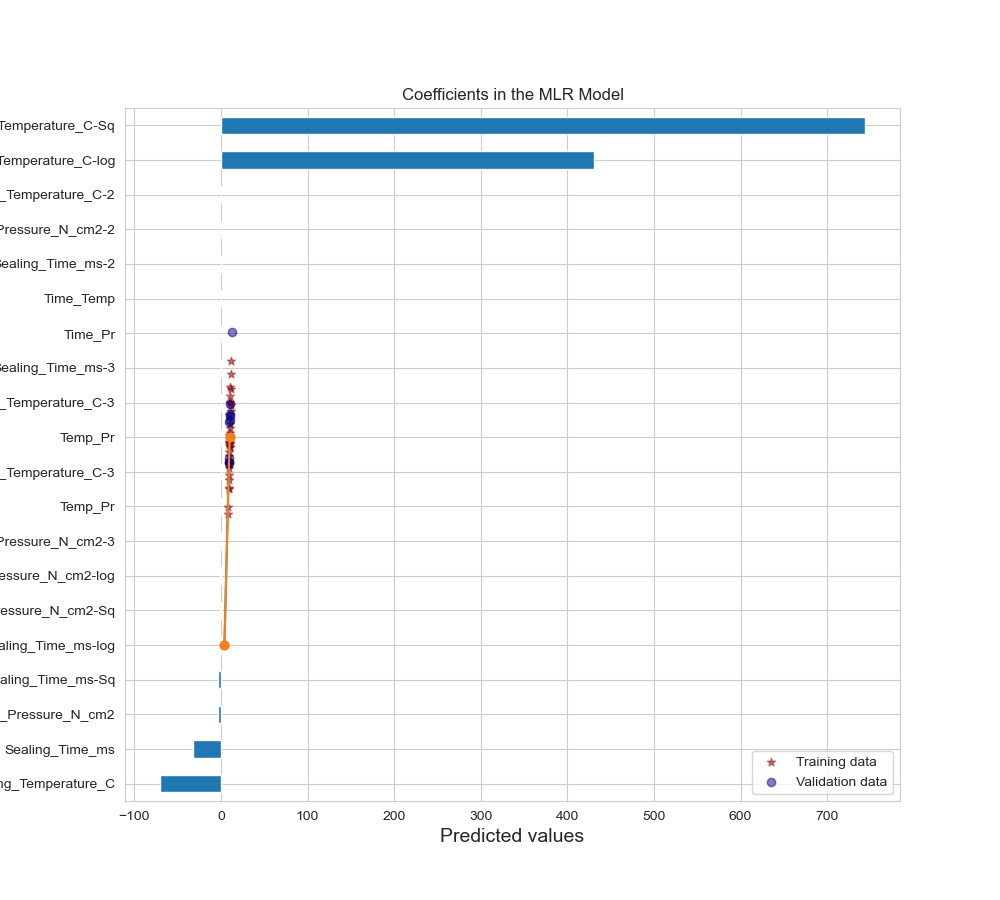
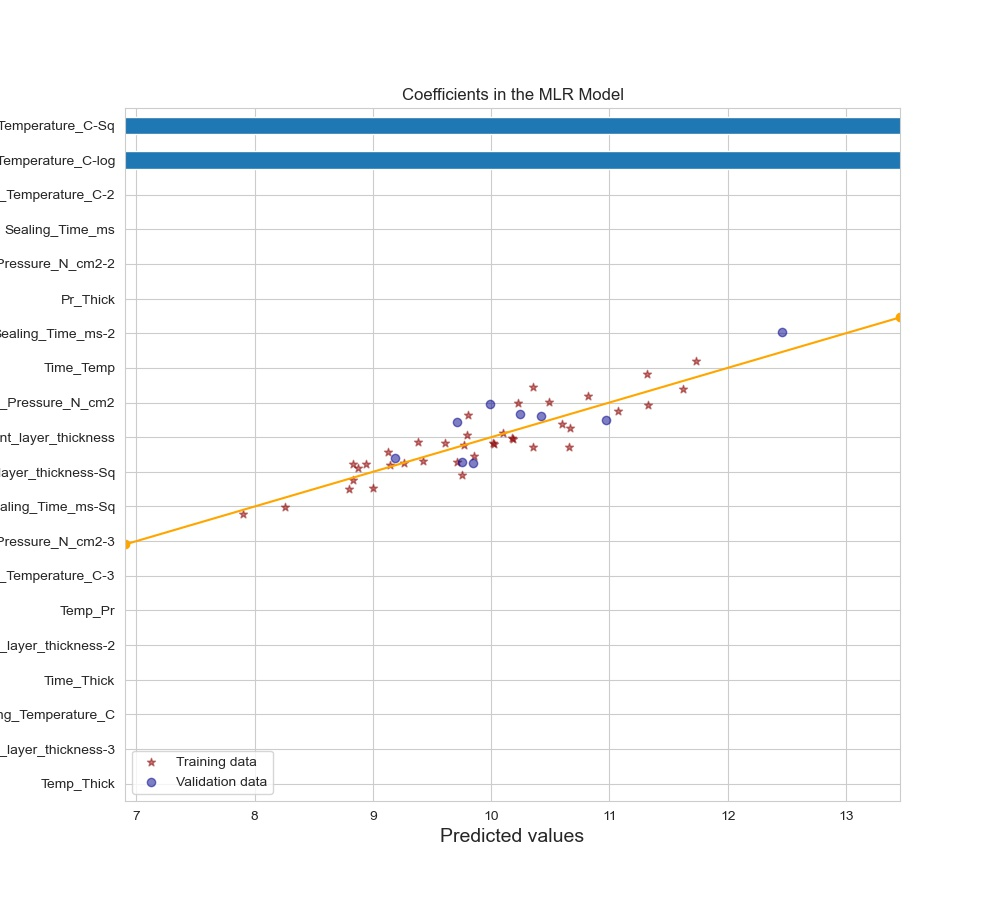
Changes

diff --git a/python_modeller.py b/python_modeller.py
@@ -43,7 +43,6 @@ def get_equation(coefs):
 
     return equation2
     
-
 def preprocess(data,polyFlag, valFlag):
     
     
@@ -69,7 +68,7 @@ def preprocess(data,polyFlag, valFlag):
         data_flat.drop('Layer_1_thickness_gsm',axis=1, inplace=True)
         data_flat.drop('Layer_2_sealant',axis=1, inplace=True)
         
-    #print("dataflat",data_flat.info())
+    print("dataflat",data_flat.info())
     
     if polyFlag == True:
         data_flat.drop('Layer_2',axis=1, inplace=True)
@@ -112,9 +111,23 @@ def preprocess(data,polyFlag, valFlag):
     
     # adding validation column
     if valFlag == True:
-        polymer_means = pd.read_excel('www/polymer_means_final.xlsx',engine='openpyxl')
-        data['Validation'] = polymer_means.Validation
-        data.Validation.fillna(0,inplace=True)
+      
+      if polyFlag==True:
+          polymer_means = pd.read_excel('www/polymer_means_final.xlsx',engine='openpyxl')
+          data['Validation'] = polymer_means.Validation
+          data.Validation.fillna(0,inplace=True)
+          
+      if polyFlag==False:
+          for i,row in data.iterrows():
+            if ((row['Sealing_Temperature_C']==120) & (row['Sealing_Pressure_N_cm2']==38.5) & (row['Sealing_Time_ms']==200)):
+                data.loc[i,'Validation'] = 1    
+            if ((row['Sealing_Temperature_C']==120) & (row['Sealing_Pressure_N_cm2']==115.5) & (row['Sealing_Time_ms']==750)):
+                data.loc[i,'Validation'] = 1   
+            if ((row['Sealing_Temperature_C']==240) & (row['Sealing_Pressure_N_cm2']==38.5) & (row['Sealing_Time_ms']==500)):
+                data.loc[i,'Validation'] = 1   
+            if ((row['Sealing_Temperature_C']==168) & (row['Sealing_Pressure_N_cm2']==115.5) & (row['Sealing_Time_ms']==200)):
+                data.loc[i,'Validation'] = 1  
+          data['Validation'].fillna(0,inplace=True)
     
     #print(data)
     return data
@@ -190,11 +203,17 @@ def run_model(data_R, predictors, material, polyFlag, valFlag):
 
     data['Mean(Seal_Strength_N_15mm)'] = data_orig['Mean(Seal_Strength_N_15mm)']
     data['Material_Name'] = data_orig['Material_Name']
-    
+    #print("----------------*------------ \n This is Orig Data ",data_orig.info())
+    #print("----------------*------------ \n This is Data b4 FE ",data.info())
 
     data = feature_engg(data, predictors)
+    #print("----------------*------------ \n This is Data after FE ",data.info())
     
+    #print(material)
+    #print("data material \n",data.Material_Name)
     data_mat = data[data.Material_Name == material]
+    
+    #print("----------------*------------ \n This is Material data",data_mat)
     data_mat.drop('Material_Name', inplace=True, axis = 1)
     
     # removing one unique outlier for polymer data
@@ -237,7 +256,7 @@ def run_model(data_R, predictors, material, polyFlag, valFlag):
             data_mat[col] = le.fit_transform(data_mat[col])
    
     #data_mat.to_csv('data_mat.csv',index=False)
-    print("THIS IS DATAMAT ",data_mat.info())
+    #print("THIS IS DATAMAT ",data_mat.info())
     if valFlag==True:
     
       X_train = data_mat[data_mat.Validation == 0]
@@ -252,9 +271,9 @@ def run_model(data_R, predictors, material, polyFlag, valFlag):
       X_val = X_val.drop('Validation', axis=1)
 
     if valFlag==False:
-      
-      X_train = data_mat.drop('Mean(Seal_Strength_N_15mm)', axis=1)
+     
       y_train = data_mat['Mean(Seal_Strength_N_15mm)']
+      X_train = data_mat.drop('Mean(Seal_Strength_N_15mm)', axis=1)
 
    
     from sklearn.feature_selection import RFE
@@ -265,14 +284,16 @@ def run_model(data_R, predictors, material, polyFlag, valFlag):
     # regressor.fit(X_train, y_train)
     # 
     # y_train_mlr = regressor.predict(X_train)
-    print(6)
+    #print(6)
     # Adding a constant variable 
     import statsmodels.api as sm  
     #X_train_rfe = sm.add_constant(X_train_rfe)
-    
-    lm = sm.OLS(y_train,X_train).fit()  
+    #print(y_train.info())
+    #print(X_train.info())
+    lm = sm.OLS(y_train,X_train).fit() 
+    #print(7)
     y_train_mlr = lm.predict(X_train)
-    
+   # print(8)
     if valFlag==True:
         y_val_mlr = lm.predict(X_val)
     # from sklearn.metrics import r2_score
@@ -286,32 +307,48 @@ def run_model(data_R, predictors, material, polyFlag, valFlag):
     plt.figure(figsize=(10,9))
     plt.scatter(y_train_mlr, y_train_mlr - y_train, c = "darkred", marker = "*", alpha=0.5, label = "Training data")
     
+    limits_list = y_train_mlr
+    #print(8)
+    
     if valFlag==True:
         plt.scatter(y_val_mlr, y_val_mlr - y_val, c = "darkblue", alpha=0.5, label = "Validation data")
+        limits_list = np.concatenate((y_train_mlr, y_val_mlr))
+    
+    #print(9)    
+    lineStart = limits_list.min()-1
+    lineEnd = limits_list.max()+1
       
     plt.title("MLR",fontsize=16)
     plt.xlabel("Predicted values",fontsize=10)
     plt.ylabel("Residuals",fontsize=10)
     plt.legend(loc = "upper left",fontsize=10)
-    x1, y1 = [4,10],[0,0]
-    x2, y2 = [4,10], [0,0]
-    plt.plot(x1, y1, x2, y2, marker = 'o')
+        
+    plt.plot([lineStart,lineEnd],[0,0], color='orange',marker = 'o')
+    plt.xlim(lineStart,lineEnd)
     plt.savefig('./www/Plot_MLR_Residuals.jpg', bbox_inches = 'tight',dpi=200)
 
     
     # Plot predictions
     plt.figure(figsize=(10,9))
+    
+    limits_list = y_train_mlr
+    
     plt.scatter(y_train_mlr, y_train, c = "darkred", alpha=0.5, marker = "*", label = "Training data")
     if valFlag==True:
         plt.scatter(y_val_mlr, y_val, c = "darkblue", alpha=0.5, label = "Validation data")
-      
+        limits_list = np.concatenate((y_train_mlr, y_val_mlr))
+
+    lineStart = limits_list.min()-1
+    lineEnd =limits_list.max()+1
+    
     plt.title("MLR",fontsize=16)
     plt.xlabel("Predicted values",fontsize=14)
     plt.ylabel("Real values",fontsize=14)
     plt.legend(loc = "upper left",fontsize=14)
-    x1, y1 = [4,10],[4,10]
-    x2, y2 = [4,10], [4,10]
-    plt.plot(x1, y1, x2, y2, marker = 'o')
+    
+    plt.plot([lineStart,lineEnd],[lineStart,lineEnd] , color='orange',marker = 'o')
+    plt.xlim(lineStart,lineEnd)
+    plt.ylim(lineStart,lineEnd)
     plt.savefig('./www/Plot_MLR_Predicted.jpg', bbox_inches = 'tight',dpi=200)
 
     # Plot important coefficients
